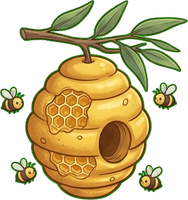
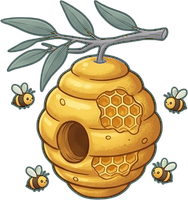
Ruche : branche accrochée au tronc, couleurs de l'eucalyptus
Claude-Session: https://claude.ai/code/session_014bi368SbjZ4sCSmbjCzFcj

diff --git a/game.js b/game.js
@@ -3239,7 +3239,7 @@ const KOB_PM = { euca: [0, 0, 131, 125], baies: [135, 0, 122, 122], miel: [261, 
 const KOB_PIMG = new Image();
 let kobPick = {}, kobNew = {}, kobQ = 0;   // plantes cueillies, « nouveau » dans le carnet, étape de l'aventure (0 pas commencée, 1 cueillette, 2 tout est cueilli, 3 remèdes)
 const KOB_REGROW = 90000;
-const RUCHE = { x: 408, y: 352 }, K2 = {}; ['ruche', 'ruche_vide', 'cire', 'miel', 'huile', 'racine'].forEach(k => { K2[k] = new Image(); K2[k].src = 'assets/kob2/' + k + '.png?v=1'; });   // la ruche de l'île : cire et miel   // une plante cueillie repousse en 1 min 30
+const RUCHE = { x: 393, y: 356 }, K2 = {}; ['ruche', 'ruche_vide', 'cire', 'miel', 'huile', 'racine'].forEach(k => { K2[k] = new Image(); K2[k].src = 'assets/kob2/' + k + '.png?v=2'; });   // la ruche de l'île : cire et miel   // une plante cueillie repousse en 1 min 30
 const kobHS = () => kobD.hs || (kobD.hs = {}), kobCut = () => kobD.cut || (kobD.cut = {});   // plantes dans le panier, et moment de la cueillette
 const kobGrown = p => !kobCut()[p.k] || Date.now() - kobCut()[p.k] > KOB_REGROW;
 const kobAvail = p => kobQ === 1 ? !kobPick[p.k] : kobQ >= 2 && kobGrown(p);

diff --git a/index.html b/index.html
@@ -1143,7 +1143,7 @@
 <script src="mymask.js"></script>
 <script src="sprites.js"></script>
 <script src="art.js"></script>
-<script src="game.js?v=112"></script>
+<script src="game.js?v=113"></script>
 </body>
 </html>
 
